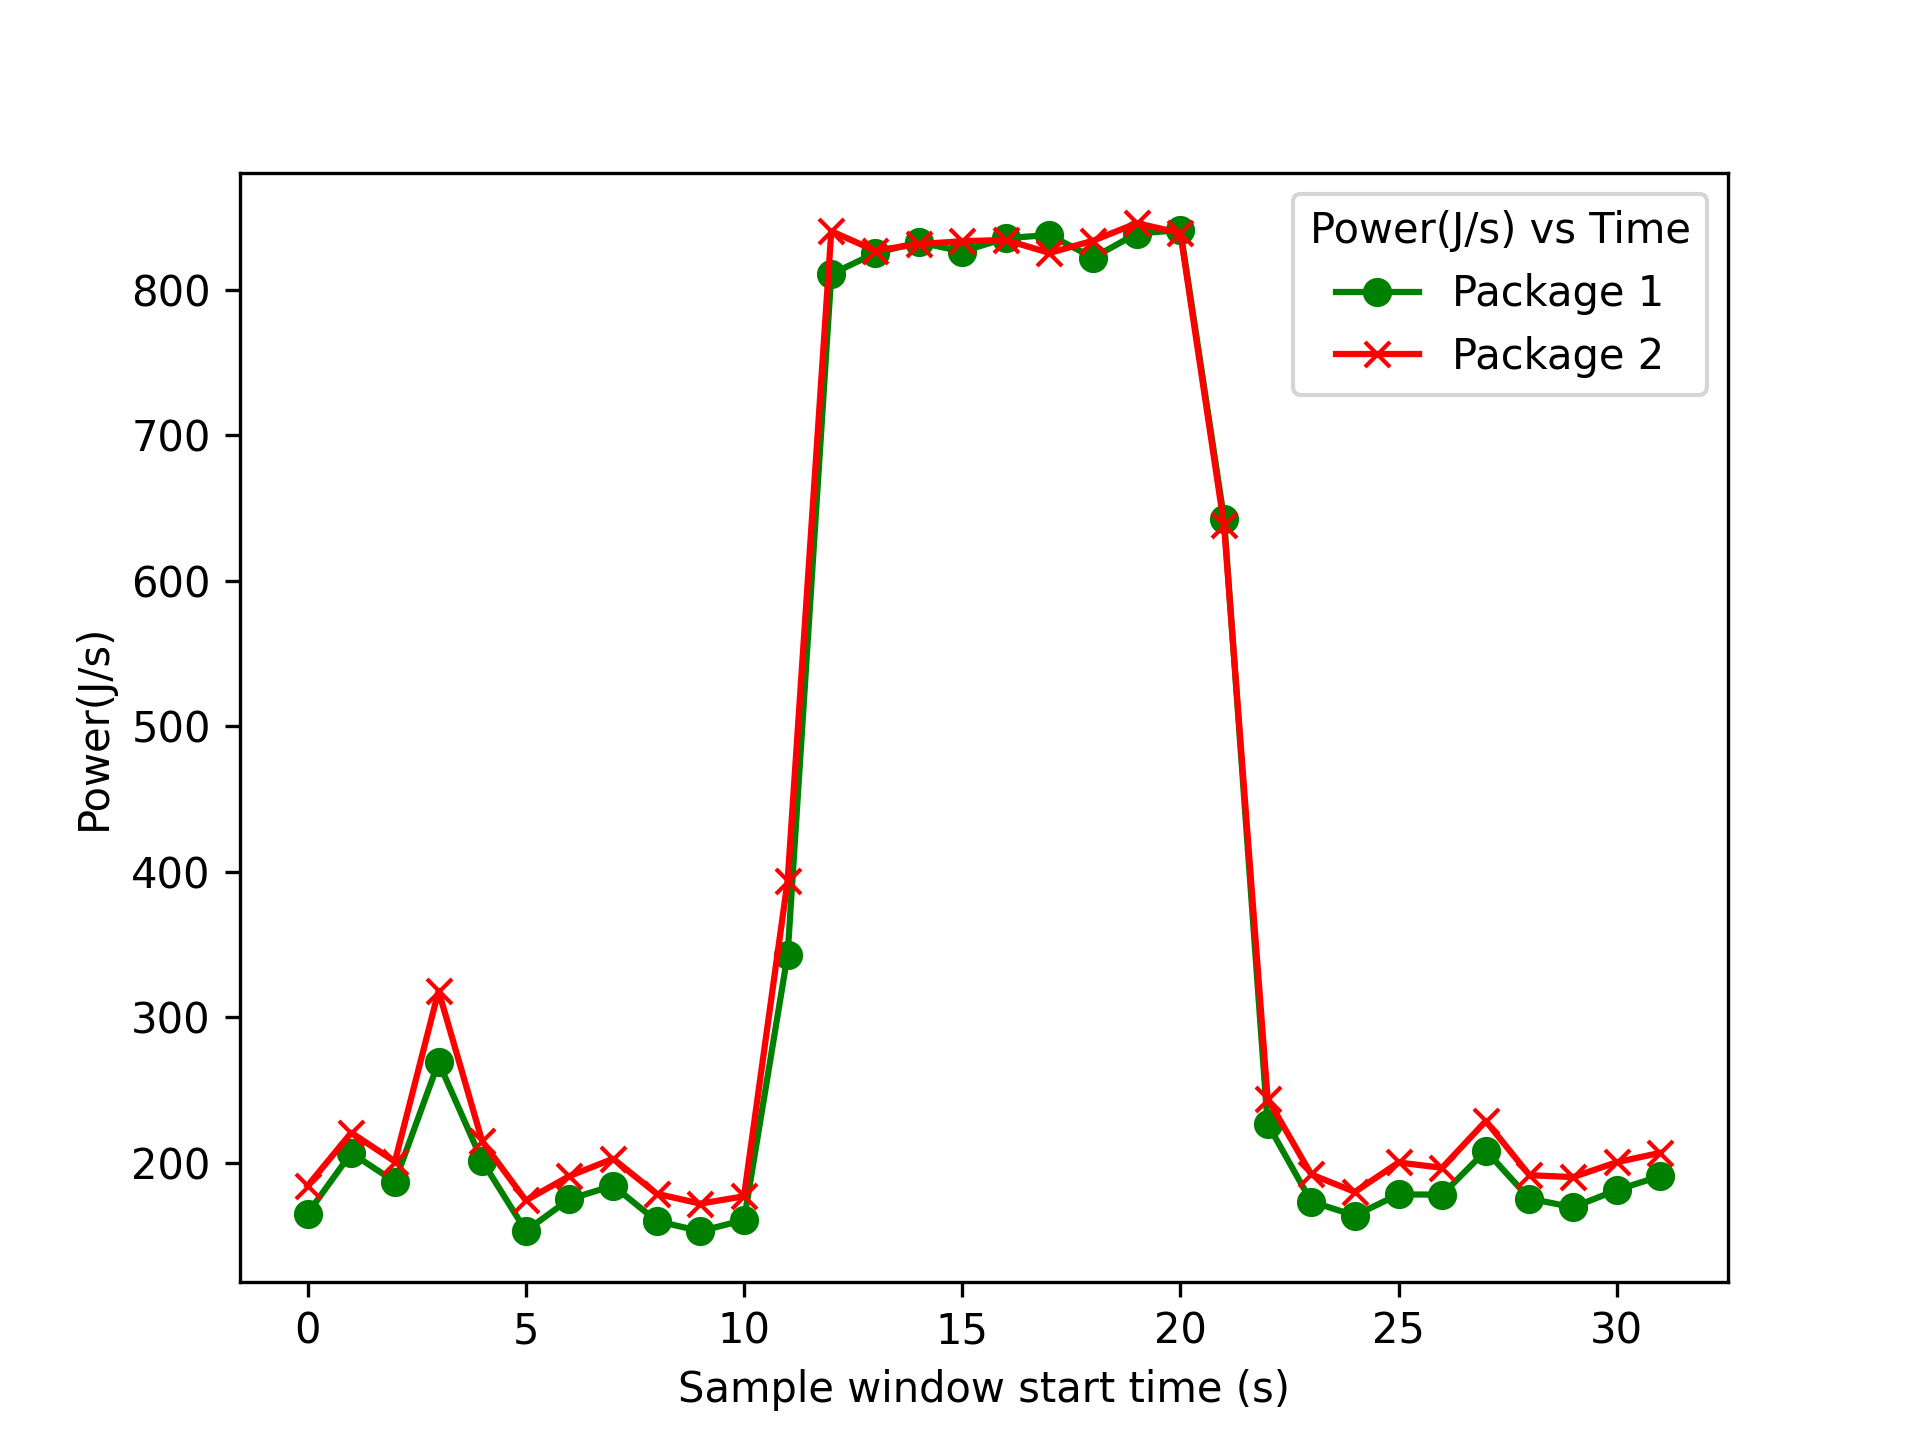
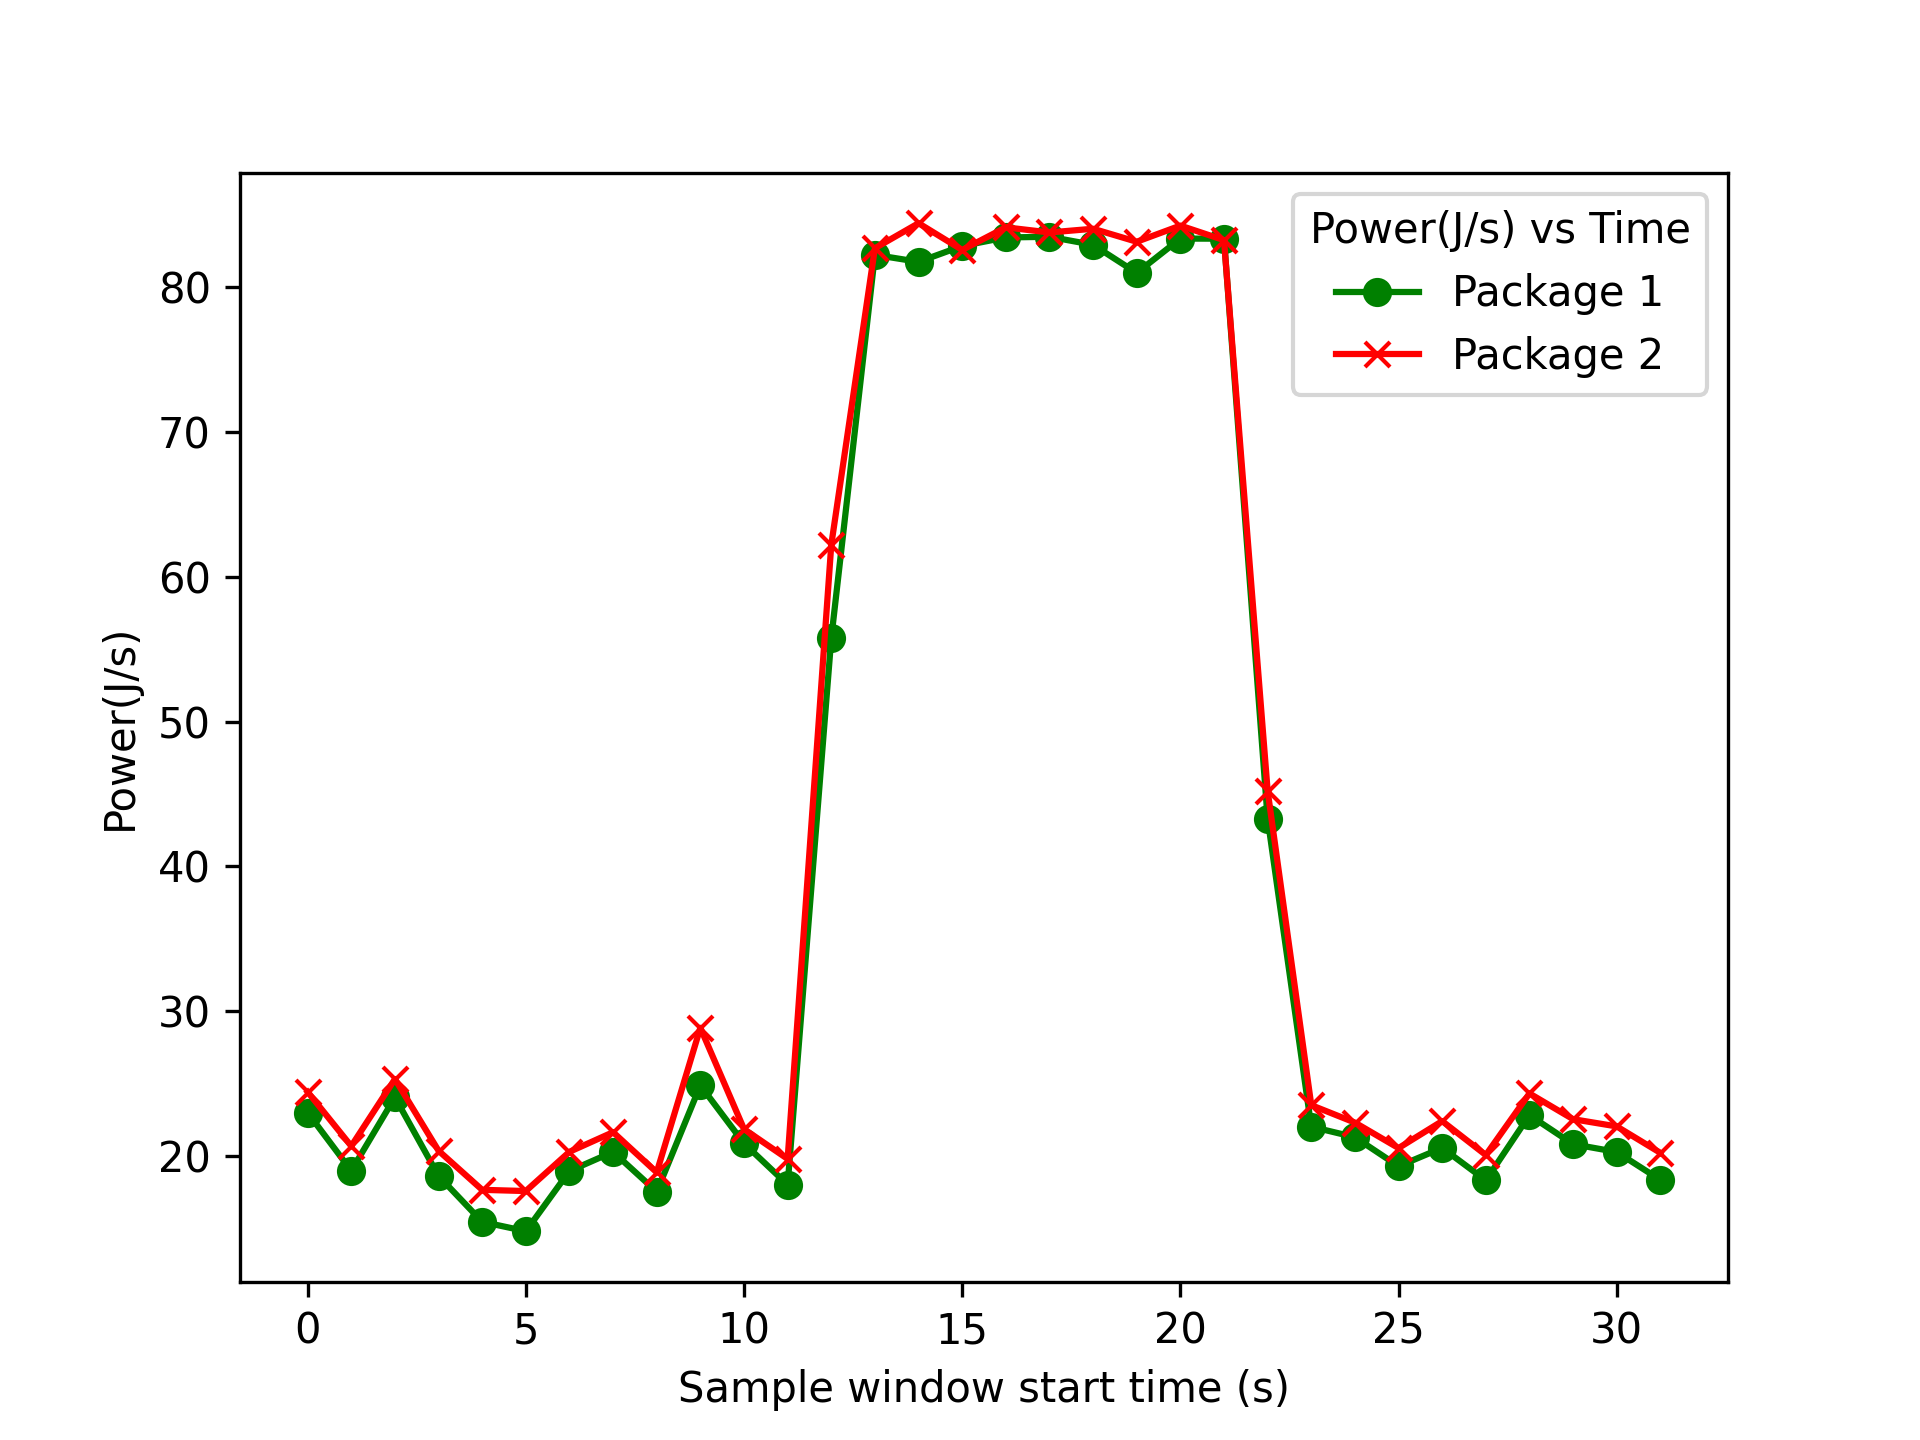
power capping

diff --git a/powercap.py b/powercap.py
@@ -1,0 +1,23 @@
+import time
+import sys
+import os
+import subprocess
+
+if os.geteuid() == 0:
+    print("We're root!")
+else:
+    print("We're not root.")
+    subprocess.call(['sudo', 'python3', *sys.argv])
+    sys.exit()
+
+
+# sudo stress --cpu 8 --timeout 20
+f = open("/sys/class/powercap/intel-rapl/intel-rapl:0/constraint_0_max_power_uw", "w+")
+f.write('50000000')
+f.close()
+
+time.sleep(10)
+
+f = open("/sys/class/powercap/intel-rapl/intel-rapl:0/constraint_0_max_power_uw ", "w+")
+f.write('125000000')
+f.close()

diff --git a/power.py b/power.py
@@ -29,8 +29,8 @@ def read_rapl():
     energy_counter2_1 = int(f.readline())
     f.close()
 
-    power_counter1 = (energy_counter1_1 - energy_counter1_0)/100000
-    power_counter2 = (energy_counter2_1 - energy_counter2_0)/100000
+    power_counter1 = (energy_counter1_1 - energy_counter1_0)/1000000
+    power_counter2 = (energy_counter2_1 - energy_counter2_0)/1000000
 
     timestamp = time.time()
     return [int(t0 - start_timestamp), power_counter1, power_counter2]
